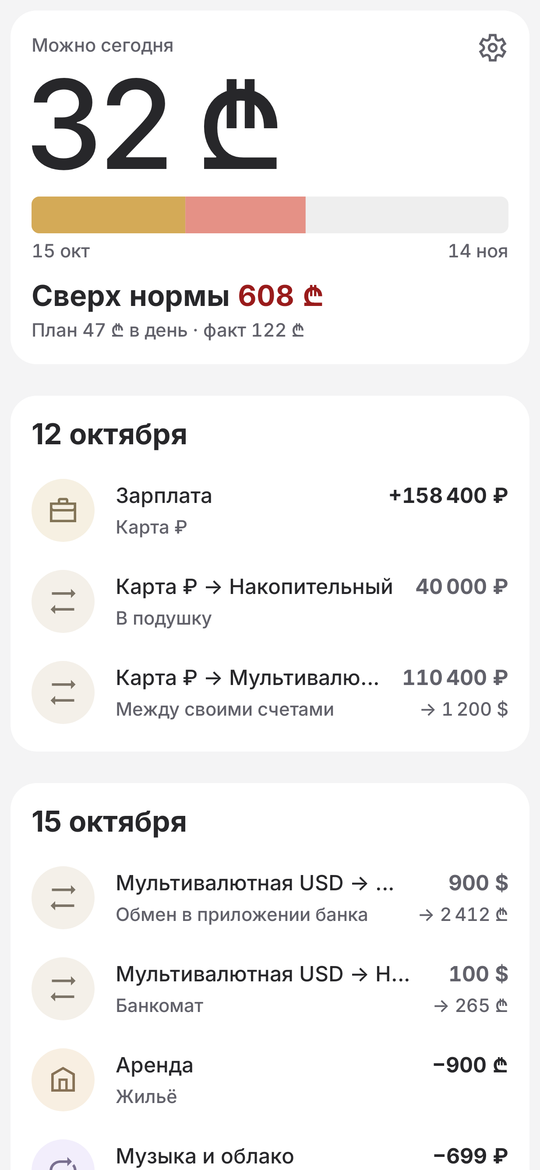
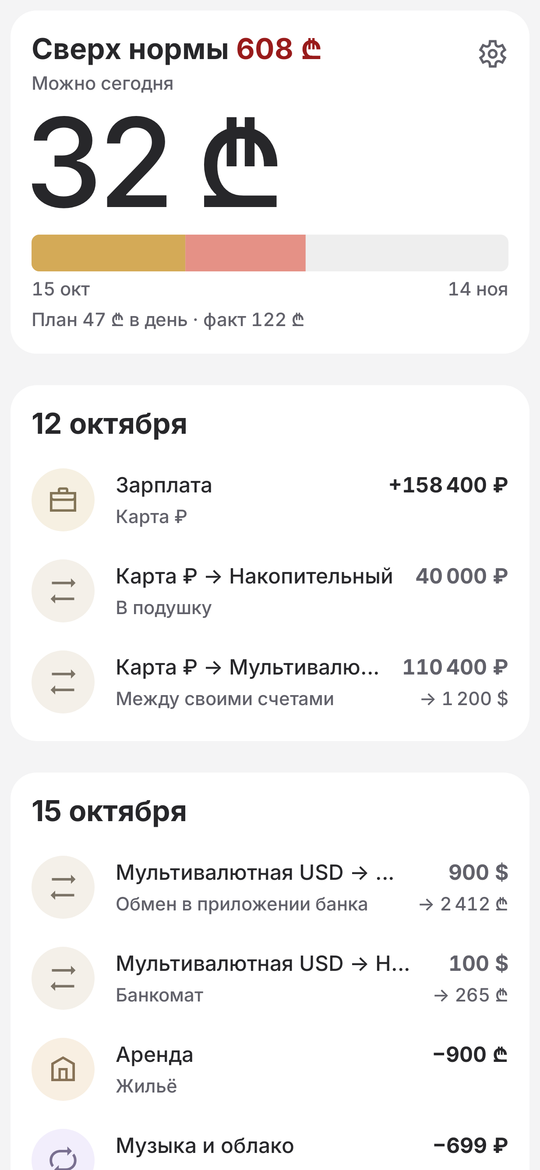
Home and Accounts: headers by Insights' rule, a title over the figure
Home's title is the status and takes the tap to the period, its caption names the figure, plan and
actual move under the bar. Accounts open with a plain total. A test holds the gear and the figure
where Insights has its calendar and figure.

diff --git a/app/src/main/java/sh/aminov/golda/ui/Screens.kt b/app/src/main/java/sh/aminov/golda/ui/Screens.kt
@@ -3,6 +3,9 @@ package sh.aminov.golda.ui
 import androidx.compose.runtime.setValue
 import androidx.compose.foundation.Canvas
 import androidx.compose.foundation.shape.RoundedCornerShape
+import androidx.compose.material3.ripple
+import androidx.compose.foundation.interaction.MutableInteractionSource
+import androidx.compose.foundation.indication
 import androidx.compose.ui.geometry.Offset
 import androidx.compose.ui.geometry.Size
 import androidx.compose.ui.platform.LocalLayoutDirection
@@ -117,28 +120,62 @@ fun HomeScreen(
             // money, with whether the money goes faster than the days.
             val scheme = MaterialTheme.colorScheme
             val ink = scheme.onPrimaryFixed
-            // What it is, then how much: the caption over the figure (14, the base, the plate's second ink).
-            // Every text cut to its letters and every gap a step of the header's row (HeaderSpace).
-            val status = TextRole.headerFigures
+            // As the other tabs: a title, its caption, the figure, every text cut to its letters and every
+            // gap a step of the header's row (HeaderSpace). The title says how the period goes, the caption names the figure.
             HeroTile(Modifier.padding(horizontal = Gap.s), content = ink, vertical = HeaderSpace.edge) {
                 // Read inside the tile: on a plate the caption's second ink is the plate's own.
                 val words = TextRole.caption
                 val cut = Modifier.letters(words.fontSize)
                 val code = envelope?.currency
                 val figure = if (envelope != null && code != null) whole(envelope.leftTodayMinor, code) else null
-                Column(Modifier.semantics(mergeDescendants = true) {}) {
-                    Row(cut) {
-                        Text(tr("Можно сегодня", "Safe to spend today"), Modifier.weight(1f), style = words, maxLines = 1)
-                        // The gear's top on the caption's line, its glyph's right edge on the content's; its 48 to
-                        // tap spills into the padding and takes no room from the line.
-                        IconButton(onClick = onSettings, modifier = Modifier.hang()) {
-                            Icon(painterResource(R.drawable.ic_settings), tr("Настройки", "Settings"), tint = scheme.onPrimaryFixedVariant)
+                val safe = tr("Можно сегодня", "Safe to spend today")
+                val title = TextRole.groupTitle
+                Row {
+                    if (envelope == null || code == null) {
+                        Text(safe, Modifier.weight(1f).letters(title.fontSize), style = title, color = ink, maxLines = 1)
+                    } else {
+                        // Against the even pace: within it, or how much past it. A tap on the line changes the period.
+                        val press = remember { MutableInteractionSource() }
+                        Row(Modifier.weight(1f).tapLine(title.fontSize).clickable(press, indication = null, onClick = onPeriod).testTag(Tags.HOME_PERIOD), verticalAlignment = Alignment.CenterVertically) {
+                            val ahead = envelope.daysLeft
+                            fun days(n: Long) = plural(n, "день", "дня", "дней", "day", "days")
+                            val beyond = envelope.overNormMinor
+                            Text(
+                                when {
+                                    envelope.balanceMinor <= 0 -> AnnotatedString(tr("Денег нет, впереди $ahead ${days(ahead)}", "No money left, $ahead ${days(ahead)} to go"))
+                                    // Less than half a unit past it still reads "0 ₾": that is within it.
+                                    beyond > 0 && Fmt.whole(beyond, code) != "0" -> buildAnnotatedString {
+                                        append(tr("Сверх нормы ", "Over the norm by "))
+                                        // The bar's red is too pale for words; the error ink reads in both themes, and on
+                                        // a bold theme's plate of colour where it does not, the plate's own ink does.
+                                        val overInk = if (contrast(scheme.onErrorContainer, scheme.primaryFixed) >= 4.5) scheme.onErrorContainer else ink
+                                        withStyle(SpanStyle(color = overInk)) { append(whole(beyond, code)) }
+                                    }
+                                    else -> AnnotatedString(tr("В норме", "Within the norm"))
+                                },
+                                // The press shows around the words alone.
+                                Modifier.weight(1f, fill = false).spill(Gap.s, Gap.s).clip(RoundedCornerShape(Gap.s)).indication(press, ripple())
+                                    .padding(Gap.s).letters(title.fontSize).testTag(Tags.HOME_RUNWAY),
+                                style = title,
+                                color = ink,
+                                maxLines = 1,
+                                overflow = TextOverflow.Ellipsis,
+                            )
                         }
                     }
+                    // The gear's top on the title's line, its glyph's right edge on the content's, as the calendar on
+                    // Insights; its 48 to tap spills into the padding and takes no room from the line.
+                    IconButton(onClick = onSettings, modifier = Modifier.hang()) {
+                        Icon(painterResource(R.drawable.ic_settings), tr("Настройки", "Settings"), tint = scheme.onPrimaryFixedVariant)
+                    }
+                }
+                VSpace(HeaderSpace.valueCaption)
+                Column(Modifier.semantics(mergeDescendants = true) {}) {
+                    Text(if (figure != null) safe else tr("Период не задан", "No period set"), cut, style = words, maxLines = 1)
                     if (figure != null) {
                         VSpace(HeaderSpace.figureCaption)
                         BoxWithConstraints {
-                            HeroAmount(figure, ink, Modifier.letters(heroFigureSize(figure, maxWidth)).testTag(Tags.HOME_BIG), signColor = ink)
+                            HeroAmount(figure, ink, Modifier.testTag(Tags.HOME_BIG).letters(heroFigureSize(figure, maxWidth)), signColor = ink)
                         }
                     }
                 }
@@ -154,37 +191,11 @@ fun HomeScreen(
                     Text(dayMonth(envelope.start), Modifier.weight(1f), style = words, maxLines = 1)
                     Text(dayMonth(envelope.end), style = words, maxLines = 1)
                 }
-                VSpace(HeaderSpace.block)
-                // Against the even pace: within it, or how much past it. A tap changes the period.
-                Column(Modifier.fillMaxWidth().clickable(onClick = onPeriod).testTag(Tags.HOME_PERIOD)) {
-                    val ahead = envelope.daysLeft
-                    fun days(n: Long) = plural(n, "день", "дня", "дней", "day", "days")
-                    val beyond = envelope.overNormMinor
-                    Text(
-                        when {
-                            envelope.balanceMinor <= 0 -> AnnotatedString(tr("Денег нет, впереди $ahead ${days(ahead)}", "No money left, $ahead ${days(ahead)} to go"))
-                            // Less than half a unit past it still reads "0 ₾": that is within it.
-                            beyond > 0 && Fmt.whole(beyond, code) != "0" -> buildAnnotatedString {
-                                append(tr("Сверх нормы ", "Over the norm by "))
-                                // The bar's red is too pale for words; the error ink reads in both themes, and on
-                                // a bold theme's plate of colour where it does not, the plate's own ink does.
-                                val overInk = if (contrast(scheme.onErrorContainer, scheme.primaryFixed) >= 4.5) scheme.onErrorContainer else ink
-                                withStyle(SpanStyle(color = overInk)) { append(whole(beyond, code)) }
-                            }
-                            else -> AnnotatedString(tr("В норме", "Within the norm"))
-                        },
-                        Modifier.letters(status.fontSize).testTag(Tags.HOME_RUNWAY),
-                        // The tile's main statement: the header's figures, in full ink.
-                        style = status,
-                        color = ink,
-                        maxLines = 1,
-                    )
-                    VSpace(HeaderSpace.valueCaption)
-                    // What a day was meant to be and what it actually is: its caption.
-                    val plan = tr("План ${whole(envelope.perDayMinor, code)} в день", "Plan ${whole(envelope.perDayMinor, code)} a day")
-                    val fact = envelope.burnMinor?.let { tr("факт ${whole(it, code)}", "actual ${whole(it, code)}") }
-                    Text(listOfNotNull(plan, fact).joinToString(" · "), cut, style = words, maxLines = 1)
-                }
+                VSpace(ChartSpace.labelsToPlan)
+                // What a day was meant to be and what it actually is, under the bar as the plan under Insights' bars.
+                val plan = tr("План ${whole(envelope.perDayMinor, code)} в день", "Plan ${whole(envelope.perDayMinor, code)} a day")
+                val fact = envelope.burnMinor?.let { tr("факт ${whole(it, code)}", "actual ${whole(it, code)}") }
+                Text(listOfNotNull(plan, fact).joinToString(" · "), cut, style = words, maxLines = 1)
                 data.states.values.mapNotNull { graceWarning(data, it, today) }.forEach {
                     Text(it, style = MaterialTheme.typography.bodyMedium, color = ink, modifier = Modifier.padding(top = Gap.xs))
                 }
@@ -256,12 +267,12 @@ fun AccountsScreen(
             HeroTile(Modifier.padding(horizontal = Gap.s), vertical = HeaderSpace.edge) {
                 // Read inside the tile: on a plate the caption's second ink is the plate's own.
                 val words = TextRole.caption
-                // What it is, then how much: each caption over its figure. Every text cut to its letters and every
-                // gap a step of the header's row (HeaderSpace): the caption a figure's step over the total, the
-                // other currencies a block under it, the debt's cost a group away. Each block one TalkBack node.
+                // A title, then how much. Every text cut to its letters and every gap a step of the header's row
+                // (HeaderSpace): the title a figure's step over the total, the other currencies a block under it,
+                // the debt's cost a group away. Each block one TalkBack node.
                 val cut = Modifier.letters(words.fontSize)
                 Column(Modifier.semantics(mergeDescendants = true) {}) {
-                    Text(tr("Всего на счетах", "Total in accounts"), cut, style = words, maxLines = 1)
+                    Text(tr("Всего", "Total"), Modifier.letters(TextRole.groupTitle.fontSize), style = TextRole.groupTitle, color = ink, maxLines = 1)
                     VSpace(HeaderSpace.figureCaption)
                     val text = data.base.whole(total)
                     BoxWithConstraints {

diff --git a/app/src/test/java/sh/aminov/golda/HeaderGridTest.kt b/app/src/test/java/sh/aminov/golda/HeaderGridTest.kt
@@ -1,0 +1,98 @@
+package sh.aminov.golda
+
+import androidx.compose.foundation.layout.PaddingValues
+import androidx.compose.foundation.lazy.rememberLazyListState
+import androidx.compose.ui.test.assertCountEquals
+import androidx.compose.ui.test.junit4.createComposeRule
+import androidx.compose.ui.test.onAllNodesWithTag
+import androidx.compose.ui.test.onAllNodesWithText
+import androidx.compose.ui.test.onNodeWithContentDescription
+import androidx.compose.ui.test.onNodeWithTag
+import androidx.compose.ui.test.onNodeWithText
+import androidx.compose.ui.test.performClick
+import org.junit.Assert.assertEquals
+import org.junit.Before
+import org.junit.Rule
+import org.junit.Test
+import org.junit.runner.RunWith
+import org.robolectric.RobolectricTestRunner
+import org.robolectric.annotation.Config
+import org.robolectric.annotation.GraphicsMode
+import sh.aminov.golda.domain.I18n
+import sh.aminov.golda.ui.AccountsScreen
+import sh.aminov.golda.ui.AnalyticsScreen
+import sh.aminov.golda.ui.AppData
+import sh.aminov.golda.ui.GoldaTheme
+import sh.aminov.golda.ui.HomeScreen
+import sh.aminov.golda.ui.Tags
+import java.util.TimeZone
+
+/** The tabs' headers by one rule: a title, a caption where there is one, the figure, the corner's mark in one place. */
+@RunWith(RobolectricTestRunner::class)
+@GraphicsMode(GraphicsMode.Mode.NATIVE)
+@Config(qualifiers = "w411dp-h891dp-xxhdpi")
+class HeaderGridTest {
+    @get:Rule val compose = createComposeRule()
+
+    private var periods = 0
+
+    @Before
+    fun world() {
+        TimeZone.setDefault(TimeZone.getTimeZone("UTC"))
+        I18n.russian = true
+    }
+
+    private fun home(data: AppData = ScreenshotTest().demo()) = compose.setContent {
+        GoldaTheme("golda", "LIGHT", "ROOMY") { HomeScreen(data, PaddingValues(), rememberLazyListState(), {}, { periods++ }, onEdit = {}) }
+    }
+
+    private fun bounds(description: String) = compose.onNodeWithContentDescription(description).fetchSemanticsNode().boundsInRoot
+    private fun tagged(tag: String) = compose.onNodeWithTag(tag, useUnmergedTree = true).fetchSemanticsNode().boundsInRoot
+
+    @Test
+    fun theGearAndTheFigureStandAsOnInsights() {
+        val insights = androidx.compose.runtime.mutableStateOf(false)
+        val data = ScreenshotTest().demo()
+        compose.setContent {
+            GoldaTheme("golda", "LIGHT", "ROOMY") {
+                if (insights.value) AnalyticsScreen(data, PaddingValues()) {} else HomeScreen(data, PaddingValues(), rememberLazyListState(), {}, {}, onEdit = {})
+            }
+        }
+        val gear = bounds("Настройки")
+        val figure = tagged(Tags.HOME_BIG)
+        insights.value = true
+        compose.waitForIdle()
+        assertEquals(gear, bounds("Период"))
+        assertEquals(figure.top, tagged(Tags.INSIGHTS_TOTAL).top, 1f)
+        assertEquals(figure.left, tagged(Tags.INSIGHTS_TOTAL).left, 1f)
+    }
+
+    @Test
+    fun theStatusIsTheTitleItsLineChangesThePeriodAndTheCaptionNamesTheFigure() {
+        home()
+        compose.onAllNodesWithText("Сверх нормы", substring = true, useUnmergedTree = true).assertCountEquals(1)
+        compose.onAllNodesWithText("Можно сегодня", useUnmergedTree = true).assertCountEquals(1)
+        compose.onAllNodesWithText("План", substring = true, useUnmergedTree = true).assertCountEquals(1)
+        assertEquals(true, tagged(Tags.HOME_RUNWAY).bottom < tagged(Tags.HOME_BIG).top)
+        compose.onNodeWithTag(Tags.HOME_PERIOD).performClick()
+        assertEquals(1, periods)
+    }
+
+    @Test
+    fun withoutAPeriodThereIsTheTitleAndItsCaptionAlone() {
+        val demo = ScreenshotTest().demo()
+        home(AppData(demo.settings, emptyList(), emptyList(), demo.categories, emptyList(), today = demo.today))
+        compose.onNodeWithText("Период не задан", useUnmergedTree = true).assertExists()
+        compose.onAllNodesWithText("Можно сегодня", useUnmergedTree = true).assertCountEquals(1)
+        compose.onAllNodesWithTag(Tags.HOME_BIG, useUnmergedTree = true).assertCountEquals(0)
+        compose.onAllNodesWithTag(Tags.HOME_PERIOD).assertCountEquals(0)
+    }
+
+    @Test
+    fun accountsOpenWithTheTotalAsATitle() {
+        val data = ScreenshotTest().demo()
+        compose.setContent { GoldaTheme("golda", "LIGHT", "ROOMY") { AccountsScreen(data, PaddingValues(), {}, {}, { _, _, _ -> }) } }
+        compose.onAllNodesWithText("Всего", useUnmergedTree = true).assertCountEquals(1)
+        compose.onAllNodesWithText("Всего на счетах", useUnmergedTree = true).assertCountEquals(0)
+    }
+}

diff --git a/app/src/main/java/sh/aminov/golda/ui/AnalyticsScreen.kt b/app/src/main/java/sh/aminov/golda/ui/AnalyticsScreen.kt
@@ -357,7 +357,7 @@ private fun inPeriod(data: AppData, period: Period, filter: Bucket?, also: (Oper
             (filter == null || Buckets.of(full.op, data.categoryById) == filter) && also(full)
     }.sortedByDescending { it.op.timestamp }
 
-/** The caption names the quantity, like Можно сегодня and Всего на счетах: "Траты за октябрь", or "За 30 дней" for the last days. */
+/** The caption names the quantity, like Можно сегодня: "Траты за октябрь", or "За 30 дней" for the last days. */
 private fun periodCaption(period: Period, today: LocalDate): String {
     val span = ReviewPrompt.title(period, today)
     return when {

diff --git a/SPEC.md b/SPEC.md
@@ -296,12 +296,13 @@
 - Поэтому бёрн не зависит от того, всё ли записано: сверил карту с банком —
   незаписанное попало в «Не записано» (п. 5.4), и бёрн честный. Записи нужны,
   чтобы видеть, куда ушли деньги, а не чтобы бюджет сходился.
-- На главной под «Можно сегодня» — период одной широкой полосой с малым
+- На главной под цифрой — период одной широкой полосой с малым
   скруглением: прошедшие дни — бледный цвет темпа, ушедшие деньги поверх —
   цвет темпа, пока не обгоняют дни, и красный сверх них. Под полосой — даты
-  начала и конца. Дальше статус: «Сверх нормы 258 ₾» или «В норме» (меньше
+  начала и конца, под ними строка «План 43 ₾ в день · факт 67 ₾» — бёрн, пока он
+  есть. Статус — заголовок шапки: «Сверх нормы 258 ₾» или «В норме» (меньше
   полуединицы сверх — тоже в норме; денег на карте нет — «Денег нет, впереди
-  N дней»), и строка «План 43 ₾ в день · факт 67 ₾» — бёрн, пока он есть.
+  N дней»). Нажатие на него открывает смену периода.
   В «ушло» здесь входят и разовые: это деньги, ушедшие с карты.
 
 ### 5.3 Корзины и категории
@@ -427,9 +428,10 @@
 её скругление концентрично скруглению панели.
 
 1. **Главная:** «Можно сегодня», период и бёрн карты трат, вход в
-   настройки, последние операции. В шапке сначала что это, потом сколько:
-   «Можно сегодня», под ним цифра; полоса периода с датами; статус, под ним
-   «План · факт»; шестерёнка — по верху строки «Можно сегодня», у правого края. Лента — по дням: день
+   настройки, последние операции. Шапка, как на других вкладках: заголовок 22
+   полужирным — статус, подпись «Можно сегодня», цифра; полоса периода с датами; «План · факт».
+   Без периода заголовок «Можно сегодня», подпись «Период не задан», цифры и полосы нет.
+   Шестерёнка — по верху строки заголовка, у правого края, там же, где календарь Аналитики. Лента — по дням: день
    открывается датой (22 полужирным, без суммы). Строка — две линии с обеих
    сторон: название — заметка или категория; под ним то, чего нет в названии
    (у перевода — заметка или «Между своими счетами», с заметкой — категория,
@@ -440,7 +442,7 @@
 3. **Счета:** итог и счета одним списком с балансами в нескольких валютах,
    прогноз процентов, совет по долгам, сверка. Шапка — два цвета (плашка и её
    чернила) и три размера: слова 14, итог крупно, итог в других валютах и
-   стоимость долга 22 полужирным. Подпись над значением: «Всего на счетах», под
+   стоимость долга 22 полужирным. Заголовок «Всего» 22 полужирным, под
    ним итог; отдельным блоком — итог в других валютах; «Проценты по кредитке»,
    под ней стоимость долга. Строка счёта — как строка ленты: тональный круг 48 с типом счёта
    (тихим цветом: у счёта нет своего), сумма того же размера, что имя, но
@@ -495,7 +497,7 @@
 - **Смелые темы** (Марафон, Ультрамарин, Сигнал, Пиксель, Голограмма, Терминал,
   Фиолет, Плашка) — по мотивам Marathon от Bungie. Страница белая днём и почти
   чёрная ночью, списки — на шаг от неё. Цвет — на одной плашке вкладки: главная
-  карточка («Можно сегодня», «За 30 дней», «Всего на счетах»). На плашке свои
+  карточка (Главной и «Счетов»). На плашке свои
   чернила (7:1 и 4.5:1); полоса темпа, пока денег хватает, — в цвете против
   плашки (не ниже 3:1), выбранное и главное действие — тоже контрастные к ней.
   Темы, выбранные до 0.21 («Закат», «Леденец»…), переходят на ближайшую новую.

diff --git a/CHANGELOG.md b/CHANGELOG.md
@@ -15,6 +15,9 @@ and this project adheres to [Semantic Versioning](https://semver.org/).
   legend, and the day's plan for the everyday kind by days. The average is off the
   screen. A picked bar gives its caption and its sum, and × in the calendar's place lets go. The period strip, the category mosaic and the kinds'
   tiles are gone; the details page picks the kind by the same menu.
+- **The tabs' headers by one rule.** A title, a caption, the figure. Home's title is the status,
+  a tap on it changes the period, «Можно сегодня» names the figure, plan and actual sit under the
+  bar. Accounts open with «Всего». The gear stands where Insights' calendar does.
 - **Reviews on Insights.** A card closes the screen, the last three reviews by date
   with what each looked at; a "+" leads to writing one, in place of the mark.
 - **Rows of a group stand one step apart to the last,** however short they are.
